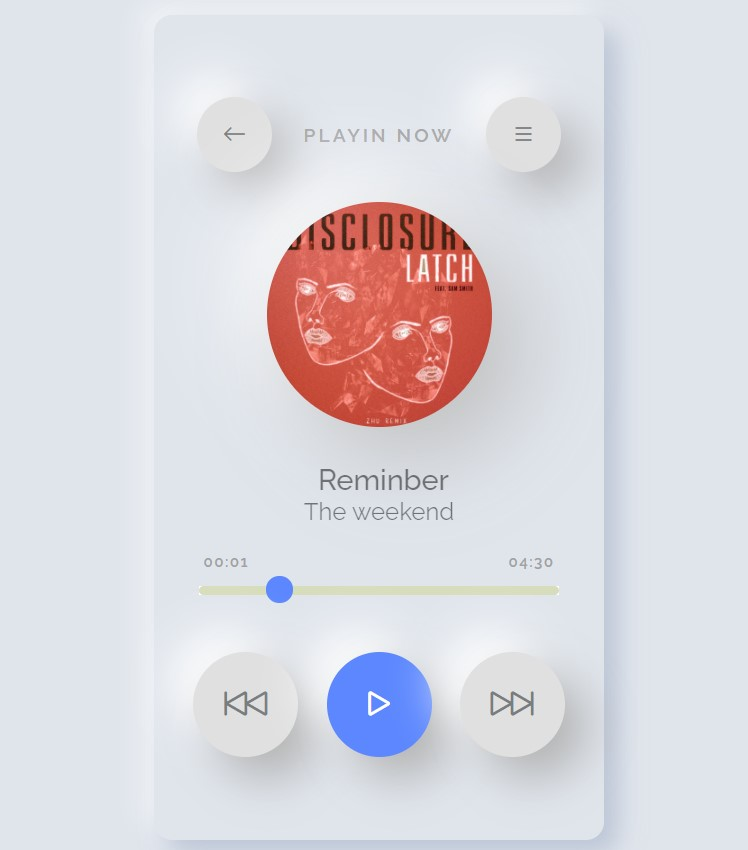
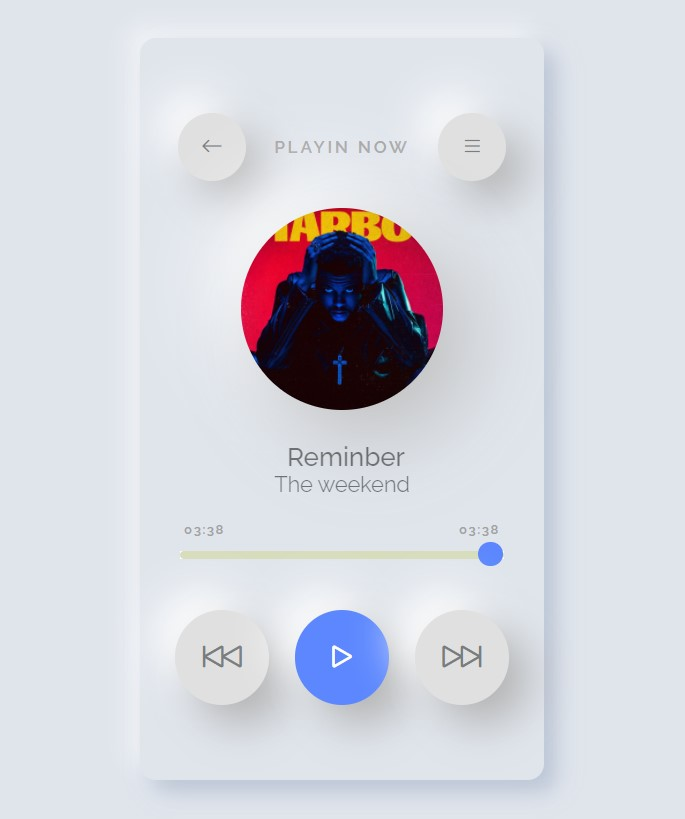
cambio screenshot

diff --git a/frontend/src/views/Player.js b/frontend/src/views/Player.js
@@ -27,8 +27,10 @@ const Player = (props) => {
                 setTimeSong(audio.currentTime);
                 console.log(time_song.value);
                 console.log(time_song.max);
+                setTimeLenghtSong(audio.duration)
                 time_song.value = audio.currentTime
                 time_song.max = audio.duration
+
 
             }, 1000);
             audio.play();
@@ -46,7 +48,7 @@ const Player = (props) => {
                     <div className="player__btn player__btn--small">
                         <i className="bi bi-arrow-left"></i>
                     </div>
-                    <h5 className="player__title">Playin Now</h5>
+                    <h5 className="player__title">Playing Now</h5>
                     <div className="player__btn player__btn--small">
                         <i className="bi bi-list"></i>
                     </div>
@@ -63,7 +65,7 @@ const Player = (props) => {
                 <input type="range" value={timeSong} min="0" max={timeLenghtSong} className="player__level" id="time_song" />
                 <div className="audio--duration">
                     <div className="start">0{parseInt(timeSong / 60)}:{parseInt(timeSong % 60)}</div>
-                    <div className="end">0{parseInt(timeLenghtSong / 60)}:{parseInt(timeLenghtSong % 60)}</div>
+                    <div className="end">0{timeLenghtSong ? parseInt(timeLenghtSong / 60) : "0"}:{timeLenghtSong ? parseInt(timeLenghtSong % 60) : '00'}</div>
                 </div>
                 <audio className="player__audio" controls id="audio" >
                     <source src="/assets/media/audio.mp3" type="audio/mpeg" />
